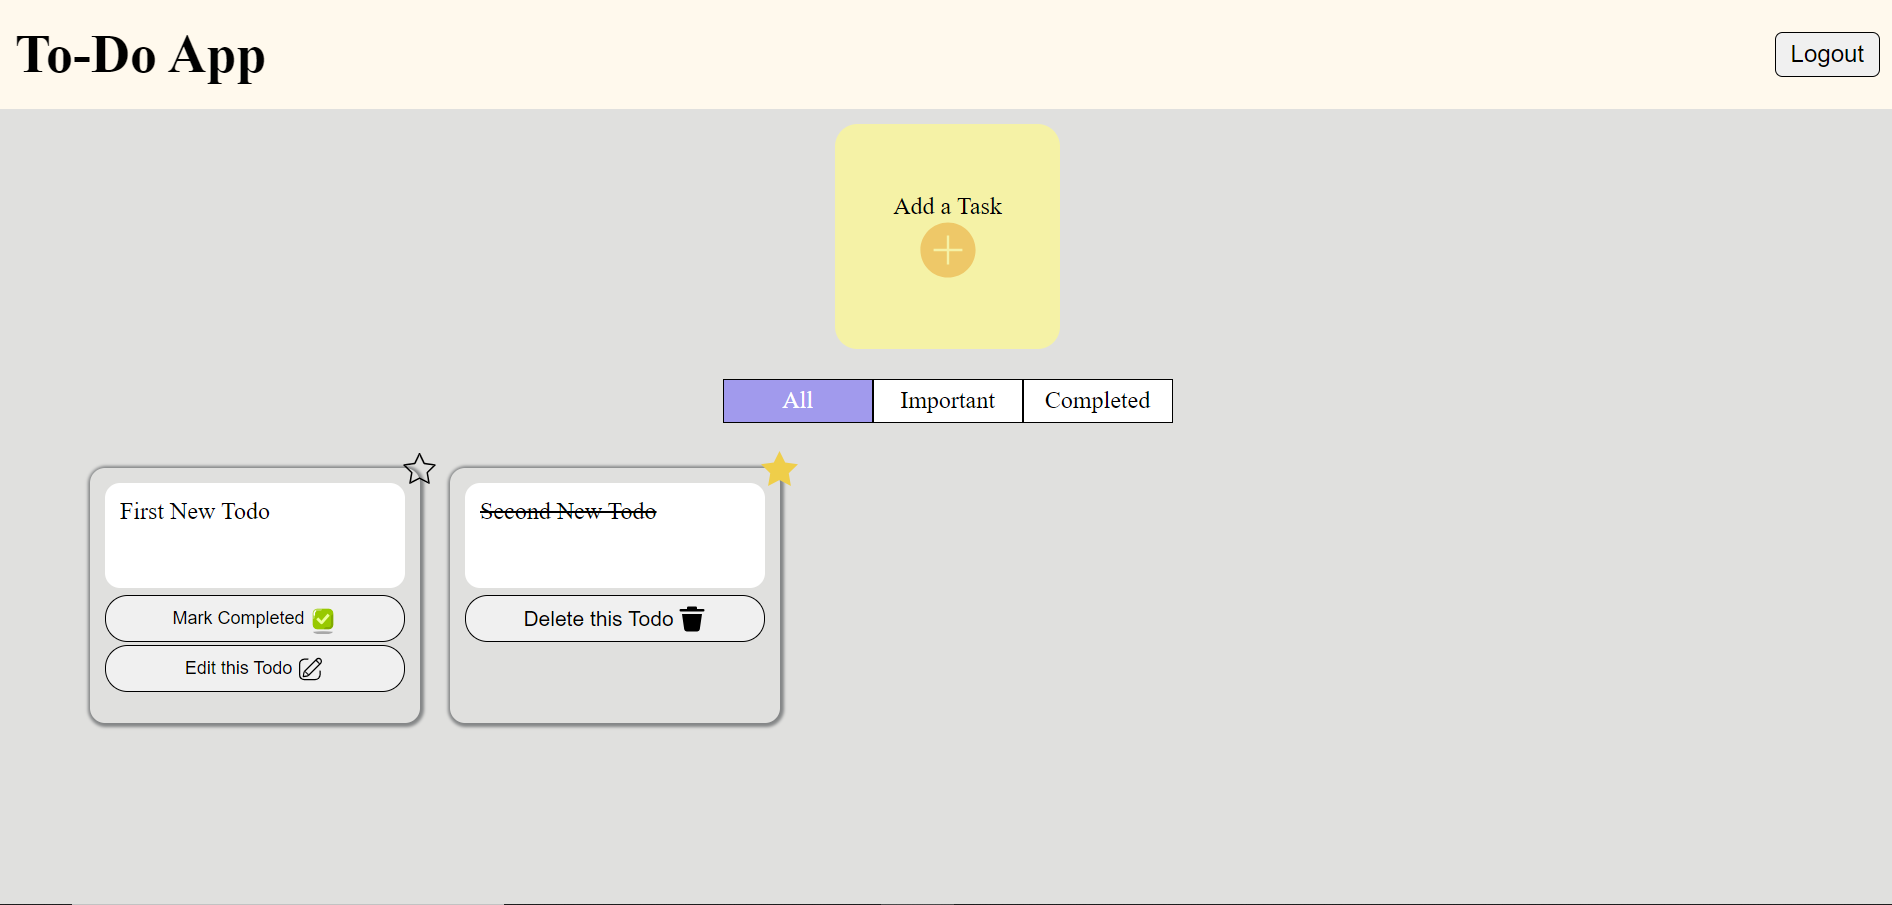
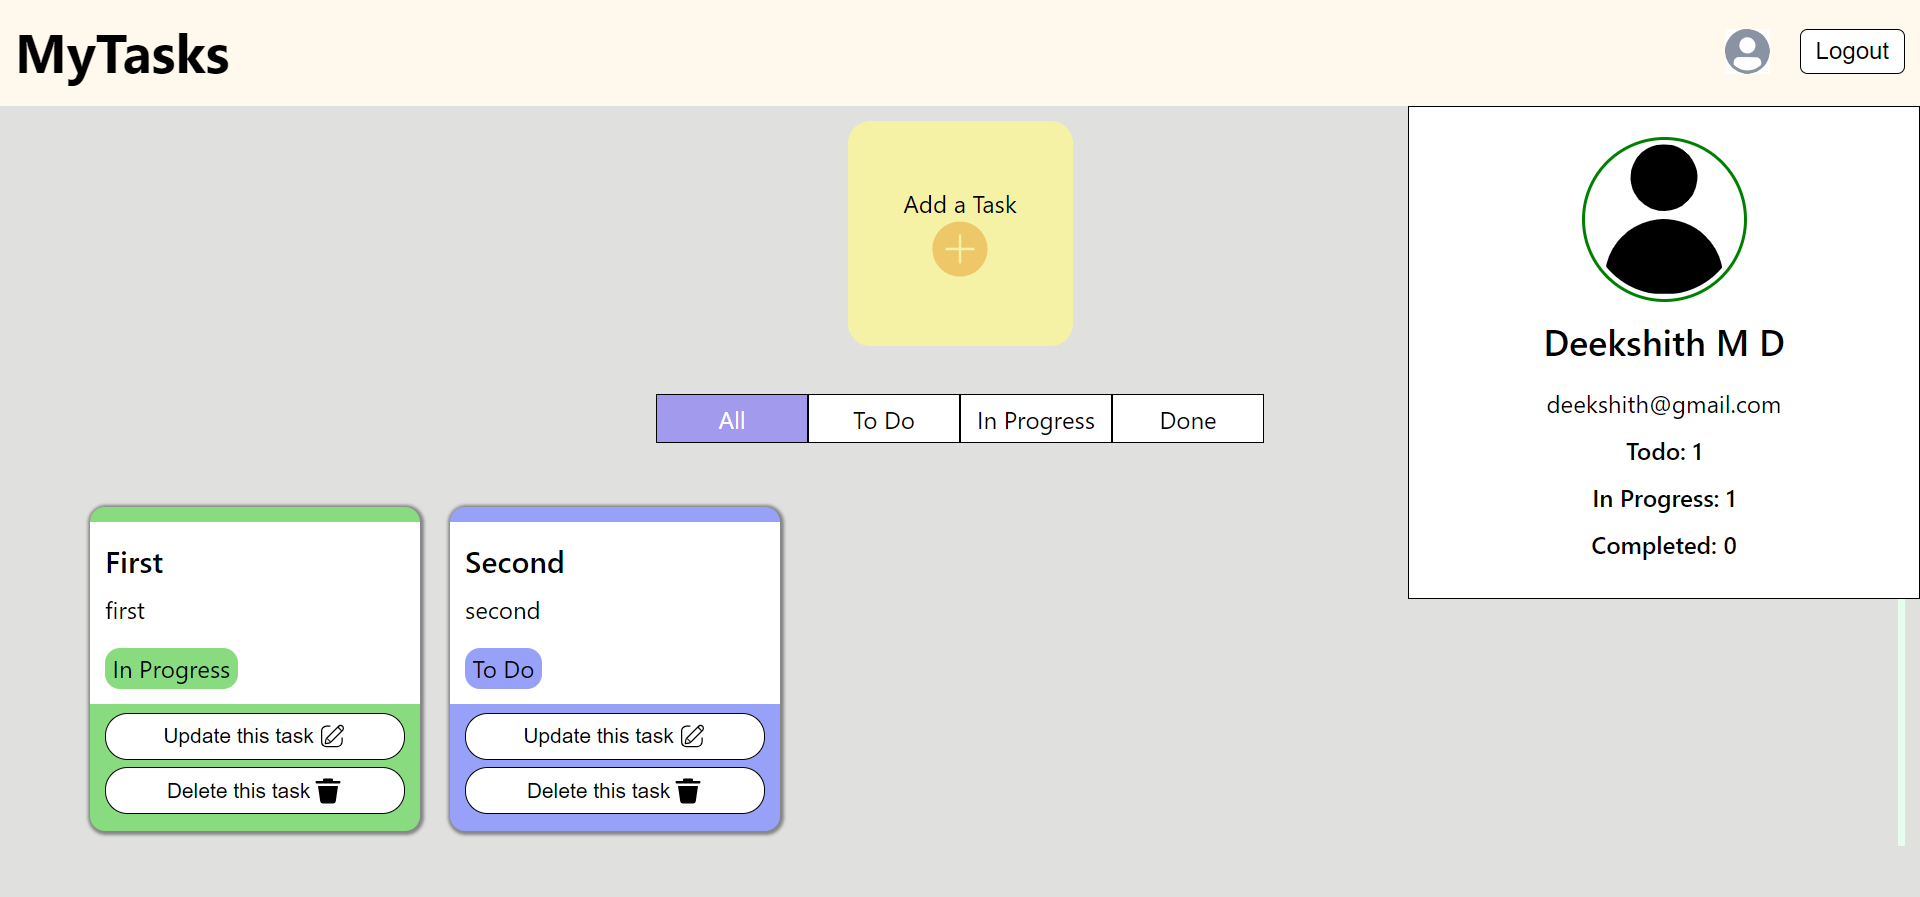
updated project

diff --git a/utils/constants.js b/utils/constants.js
@@ -45,16 +45,18 @@ export const projects = [
   },
   {
     id: 6,
-    name: "Todo App",
-    description: "This is a Fully functional Todo App using localstorage along with Authentication",
+    name: "Task Management App",
+    description:
+      "This is a Full Stack Task Management Application using ReactJS, NodeJS, ExpressJS and MongoDB",
     image: "/assets/projects/todo-app.png",
-    source: "https://github.com/deekshithmd/todo-app-assignment",
-    project: "https://todo-app-assignment-weld.vercel.app/",
+    source: "https://github.com/deekshithmd/task-management-system",
+    project: "https://task-management-system-ochre.vercel.app",
   },
   {
     id: 7,
     name: "SOP Generation Tool",
-    description: "This is a Fullstack app which generates statement of purpose based on candidate data and sends email with his data and SOP pdf",
+    description:
+      "This is a Fullstack app which generates statement of purpose based on candidate data and sends email with his data and SOP pdf",
     image: "/assets/projects/sop-tool.png",
     source: "https://github.com/deekshithmd/sop-generation-tool",
     project: "https://sop-generation-tool.vercel.app/",
@@ -62,12 +64,12 @@ export const projects = [
   {
     id: 8,
     name: "Image Annotation Tool",
-    description: "This is a tool using which you can create annotation on the provided image",
+    description:
+      "This is a tool using which you can create annotation on the provided image",
     image: "/assets/projects/annotation-tool.png",
     source: "https://github.com/deekshithmd/image-annotation",
     project: "https://image-annotation-ten.vercel.app/",
-  }
-
+  },
 ];
 
 export const skillSet = [
